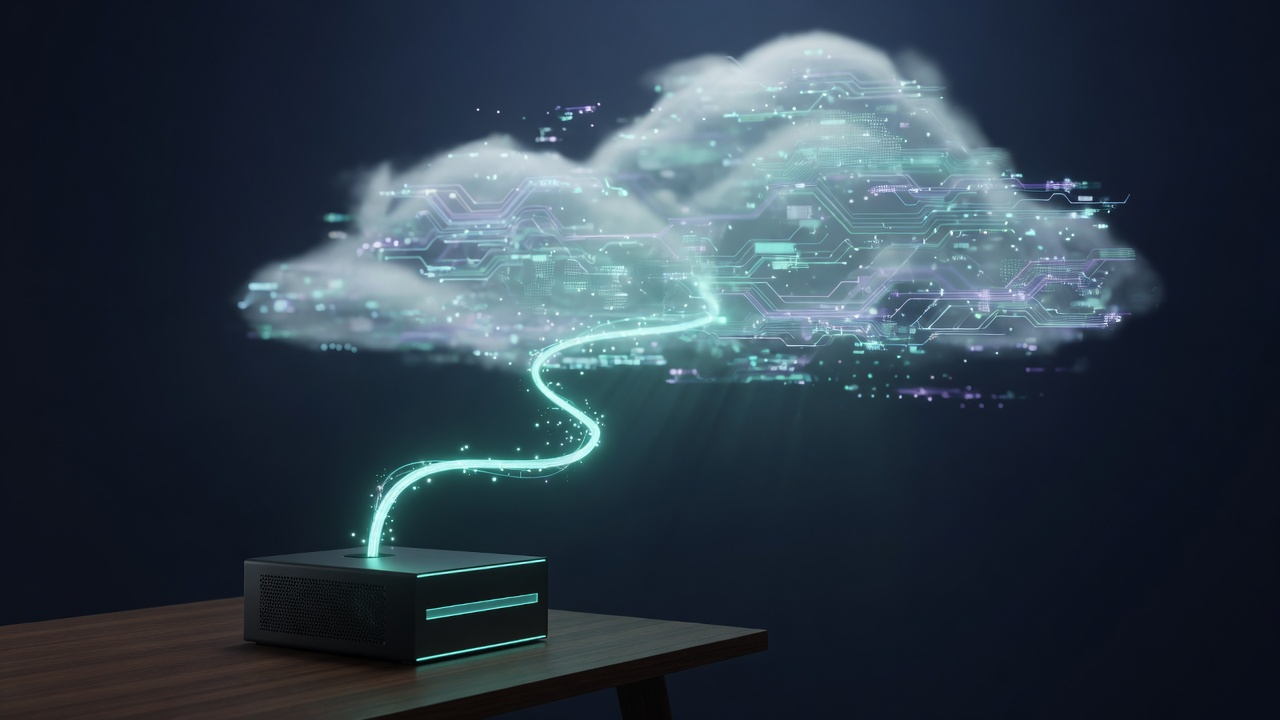
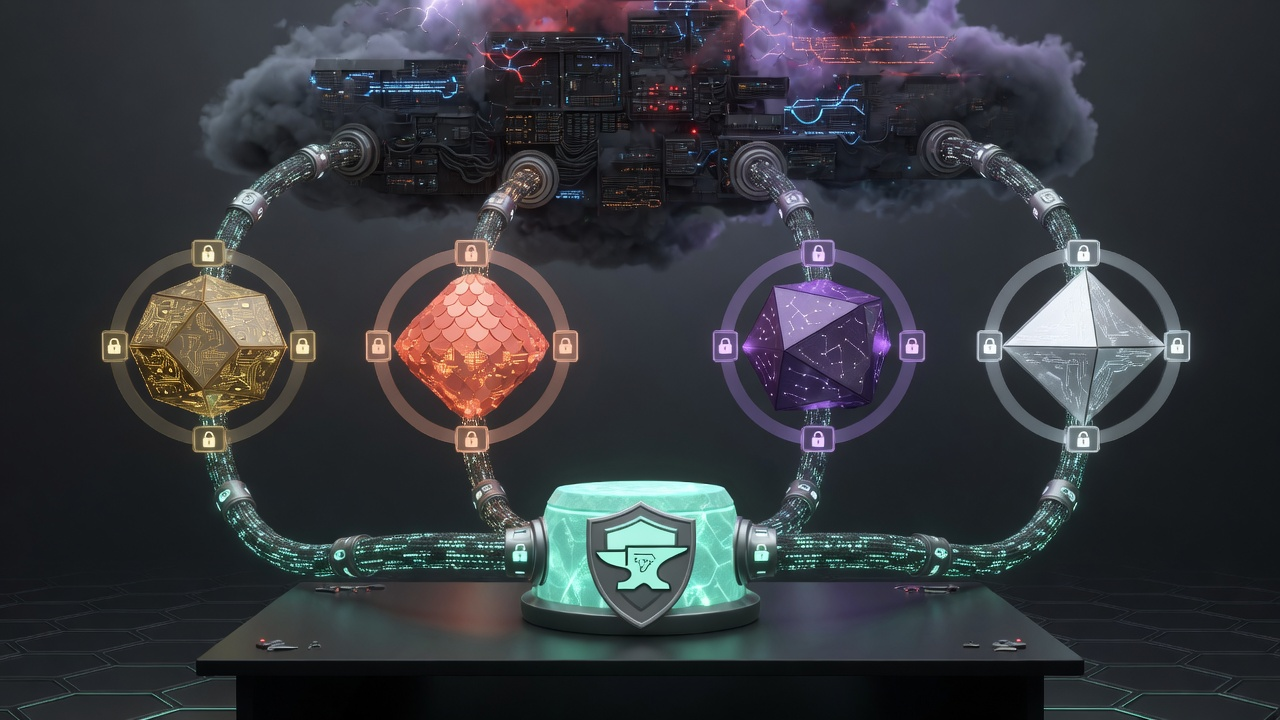
Replace hero: Ironclad steers four locked coder streams into the cloud

diff --git a/README.md b/README.md
@@ -4,7 +4,7 @@ The **orchestrator** always talks to a **local Spark**. A **cloud coder** is onl
 
 Public sources will live in the `ironclad` repo. This tree explains the idea. It is not those sources.
 
-![A local computer sending a light path up into a remote cloud](docs/images/hero-local-to-cloud.jpg)
+![Ironclad as a local shielded core steering four locked coder streams into the cloud](docs/images/hero-local-to-cloud.jpg)
 
 ## The one picture
 
